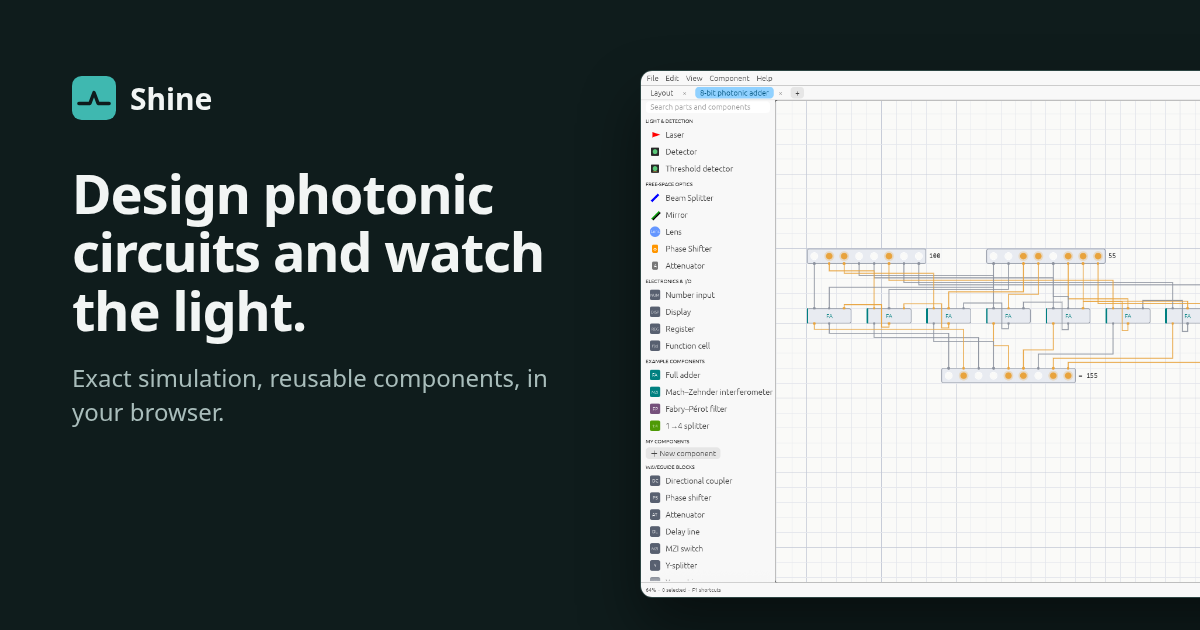
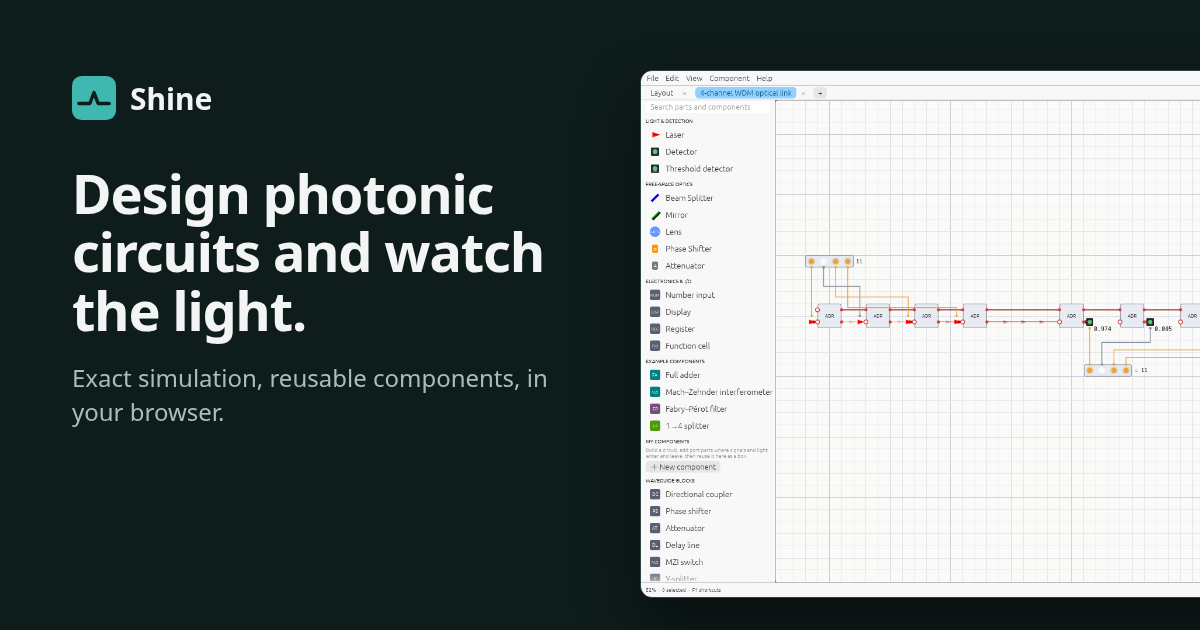
A real-world example: a 4-channel WDM optical link
Four bits switch lasers at 1530-1560 nm; add-drop rings tuned to each
wavelength multiplex them onto one waveguide, and matching rings at the
receiver drop each colour onto a threshold detector. This is what
silicon-photonic transceivers do in data centres. Tests check every
4-bit value, crosstalk below 1%, and that detuning a receiver ring loses
its channel.

The adder is now described as an electro-optic teaching model, and the
website leads with the WDM link.

diff --git a/src/panels/optics/examples.rs b/src/panels/optics/examples.rs
@@ -361,6 +361,61 @@ pub fn cascaded_interferometers(project: &mut Project) -> DocId {
     project.add_layout("Cascaded interferometers", l, 10.0)
 }
 
+/// Channel wavelengths of the WDM link, 10 nm apart in the telecom C band.
+pub const WDM_CHANNELS_NM: [f64; 4] = [1530.0, 1540.0, 1550.0, 1560.0];
+
+/// An add–drop ring resonant at `nm` (20th order, n_eff 2.4).
+fn channel_ring(nm: f64) -> Builtin {
+    Builtin::AddDropRing {
+        coupling: 0.05,
+        length_um: 20.0 * nm / 1000.0 / 2.4,
+        n_eff: 2.4,
+        loss_db_per_cm: 2.0,
+    }
+}
+
+/// Four bits sent over one waveguide on four wavelengths, the way silicon
+/// photonic transceivers move data between servers.
+///
+/// Transmitter: each bit switches a laser at its own wavelength, and a ring
+/// resonator tuned to that wavelength adds it to the shared bus. Receiver:
+/// rings tuned to the same wavelengths drop each colour onto its own
+/// threshold detector, which gives the bit back.
+pub fn wdm_link(project: &mut Project) -> DocId {
+    let mut l = Layout::default();
+    let data = Item::Box(l.add_instance(BlockRef::Builtin(Builtin::NumberInput { bits: 4, value: 0b1011 }), (3, 0)));
+    let mut bus: Option<PortRef> = None;
+    for (k, &nm) in WDM_CHANNELS_NM.iter().enumerate() {
+        let x = 4 + 4 * k as i32;
+        let ring = l.add_instance(BlockRef::Builtin(channel_ring(nm)), (x, 4));
+        // The laser shines into the ring's add port (its lower input).
+        l.components.push(at(x - 1, 5, OpticComponentKind::Laser {
+            amplitude: 1.0,
+            phase: 0.0,
+            wavelength: nm as f32,
+            dir: Vec2::new(1.0, 0.0),
+        }));
+        let laser = l.components.len() - 1;
+        signal(&mut l, (data, k), (Item::Part(laser), 0));
+        if let Some(through) = bus {
+            l.connect_optical(through, PortRef { instance: ring, port: 0 });
+        }
+        bus = Some(PortRef { instance: ring, port: 0 });
+    }
+    let received = Item::Box(l.add_instance(BlockRef::Builtin(Builtin::Display { bits: 4 }), (26, 9)));
+    for (k, &nm) in WDM_CHANNELS_NM.iter().enumerate() {
+        let x = 24 + 5 * k as i32;
+        let ring = l.add_instance(BlockRef::Builtin(channel_ring(nm)), (x, 4));
+        l.connect_optical(bus.expect("transmitter built"), PortRef { instance: ring, port: 0 });
+        bus = Some(PortRef { instance: ring, port: 0 });
+        // The drop port's light leaves the box's right edge into a detector.
+        l.components.push(at(x + 2, 5, OpticComponentKind::Detector { threshold: 0.5 }));
+        let detector = l.components.len() - 1;
+        signal(&mut l, (Item::Part(detector), 0), (received, k));
+    }
+    project.add_layout("4-channel WDM optical link", l, 10.0)
+}
+
 pub struct Demo {
     pub name: &'static str,
     pub description: &'static str,
@@ -371,8 +426,13 @@ pub struct Demo {
 pub fn demos() -> Vec<Demo> {
     vec![
         Demo {
+            name: "4-channel WDM optical link",
+            description: "What photonic chips do in data centres today: four bits travel down one waveguide on four colours of light. Each bit switches a laser at its own wavelength (1530–1560 nm); ring resonators tuned to those wavelengths add them to the shared waveguide, and identical rings at the receiver pick each colour off onto a detector that turns it back into a bit. Real transceivers run each wavelength at 25–100 Gb/s. Click the input bits, or select a ring and detune it to see the channel drop out.",
+            build: wdm_link,
+        },
+        Demo {
             name: "8-bit photonic adder",
-            description: "Adds two 8-bit numbers with light. Each full adder is an interferometer (sum) and a thresholded detector (carry); carries ripple from right to left. Click the input bits and watch the result change. Open a full adder with Tab to see its optics.",
+            description: "Adds two 8-bit numbers in an electro-optic teaching model. Each full adder computes its sum bit by interference (the input bits drive phase shifters) and its carry with a thresholded detector; carries ripple from right to left through electronics. Research chips keep the carry in light and detect only at the end, and in practice photonics is used for data links and linear algebra rather than digital arithmetic. Click the input bits; open a full adder with Tab to see its optics.",
             build: eight_bit_adder,
         },
         Demo {

diff --git a/src/panels/circuit/sim/tests.rs b/src/panels/circuit/sim/tests.rs
@@ -358,3 +358,41 @@ fn helpers() {
     assert_eq!(o.wire_power(3), 0.0);
     assert_eq!(o.reading(0), None);
 }
+
+#[test]
+fn wdm_link_carries_every_value_on_separate_wavelengths() {
+    let mut p = Project::new();
+    let id = examples::wdm_link(&mut p);
+    let layout = p.doc(id).unwrap().layout().clone();
+    let display = Item::Box(layout.instances.iter().find(|i| matches!(i.block, BlockRef::Builtin(Builtin::Display { .. }))).unwrap().id);
+    let detectors: Vec<usize> =
+        (0..layout.components.len()).filter(|&i| matches!(layout.components[i].kind, OpticComponentKind::Detector { .. })).collect();
+    assert_eq!(detectors.len(), 4);
+    for value in 0..16u64 {
+        let mut l = layout.clone();
+        l.instances[0].block = number(4, value);
+        let o = run_with(&l, &p, &Machine::default(), Some(id));
+        assert_eq!(shown(&o, &l, display, 4), value, "sent {value:04b}");
+        if value.count_ones() == 1 {
+            // One channel lit: it arrives almost whole, the others stay dark.
+            let lit = value.leading_zeros() as usize - 60;
+            for (k, &d) in detectors.iter().enumerate() {
+                let power = o.reading(d).unwrap();
+                if k == lit {
+                    assert!(power > 0.9, "channel {k} received {power}");
+                } else {
+                    assert!(power < 0.01, "crosstalk {power} on channel {k}");
+                }
+            }
+        }
+    }
+    // Detuning the receiver's ring for a channel loses that bit.
+    let mut l = layout.clone();
+    l.instances[0].block = number(4, 0b1111);
+    let receiver_ring = l.instances.iter().position(|i| i.cell == (24, 4)).unwrap();
+    if let BlockRef::Builtin(Builtin::AddDropRing { length_um, .. }) = &mut l.instances[receiver_ring].block {
+        *length_um *= 1.002;
+    }
+    let o = run_with(&l, &p, &Machine::default(), Some(id));
+    assert_eq!(shown(&o, &l, display, 4), 0b0111, "the first channel is no longer dropped");
+}
